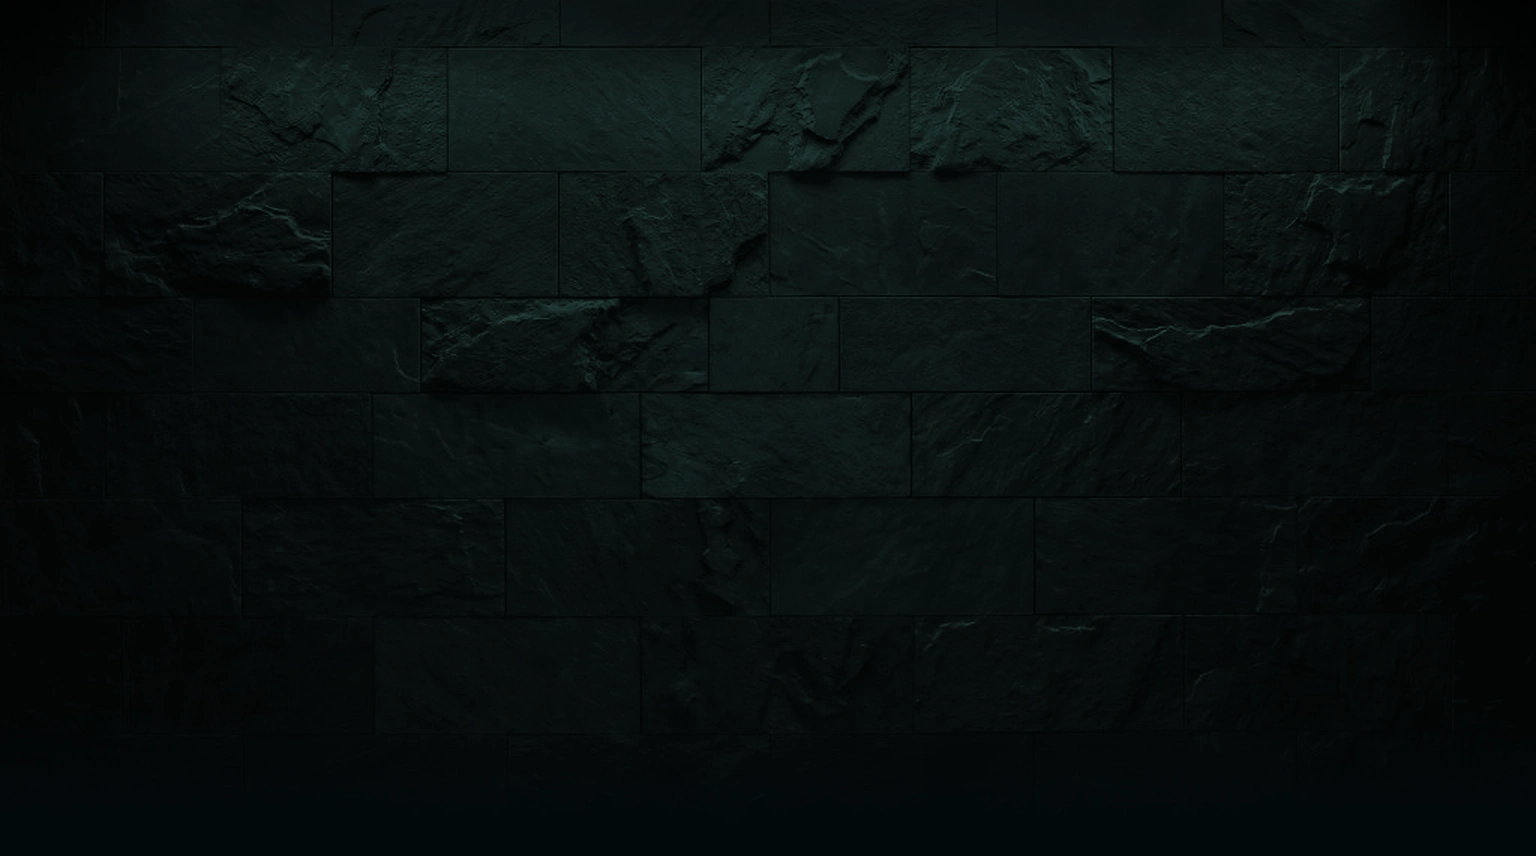
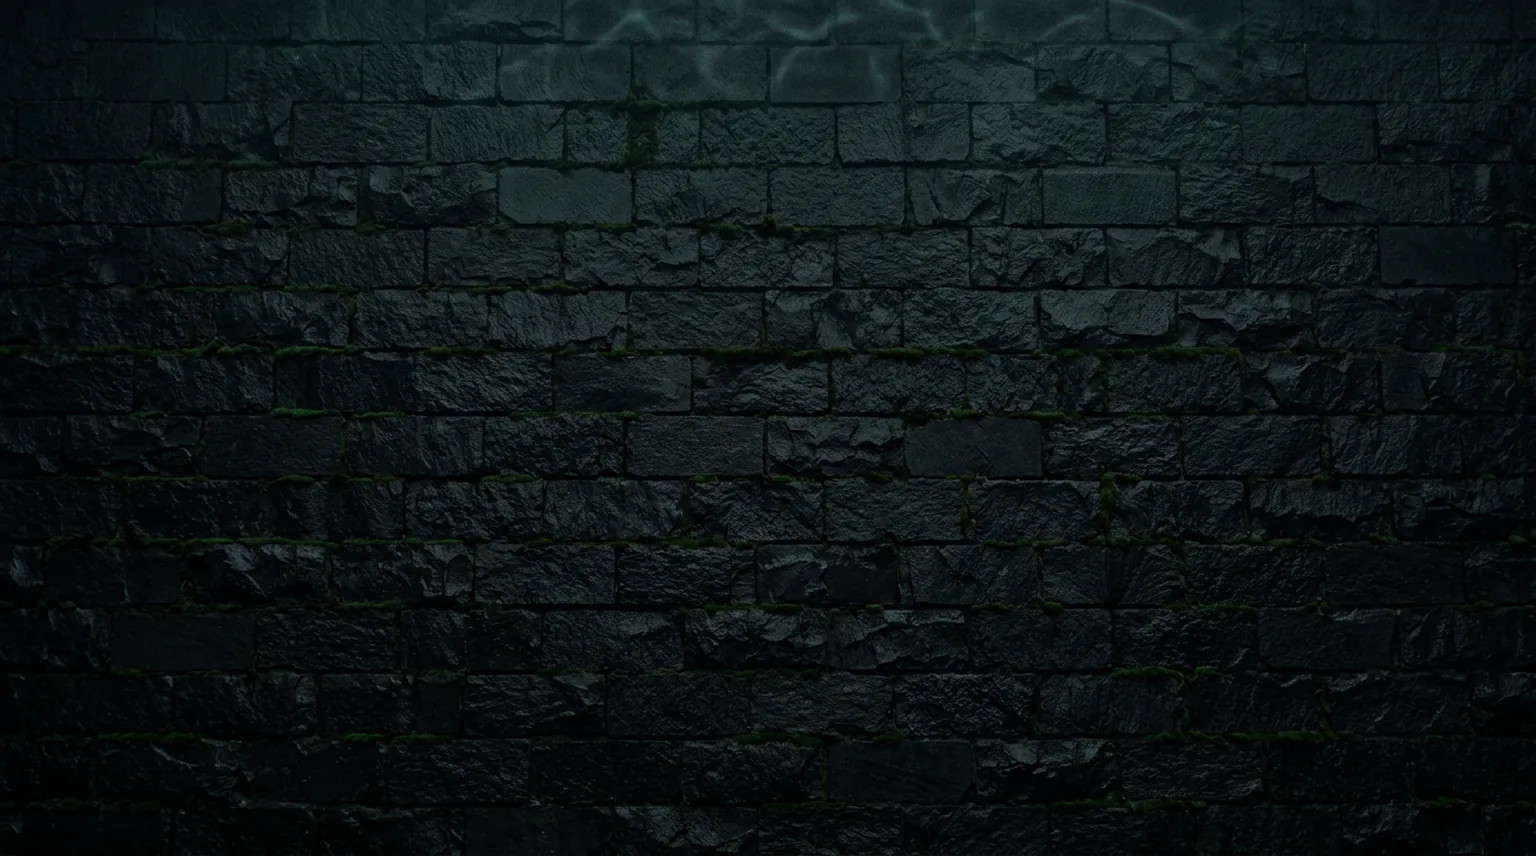
feat(ui): Entry213 v6.1 elevated Frame 4 optical composition, ancient mossy dark basalt wall (?v=61), smudge-free typography & living loop SVG caustics

diff --git a/public/app.css b/public/app.css
@@ -1,8 +1,8 @@
 /* ==========================================================================
-   GLOW Web — Entry213 v6.0 · "Optical Full-Bleed Cinema & Editorial Agency Craft"
+   GLOW Web — Entry213 v6.1 · "Optical Full-Bleed Cinema & Ancient Mossy Basalt Craft"
    True Video-Over-Video Crossfade Seams · Unified 1680px Left Axis & Sans Display
-   Single-Viewport Frame 4 Finale + Overlaid Home Footer · 12 Bespoke WebP Templates
-   Zero Knife-Cut Bars · Zero Canvas · Zero External CDN · Zero innerHTML
+   Elevated Frame 4 Composition + Living Loop SVG Caustics · 12 Bespoke WebP Templates
+   Zero Knife-Cut Bars · Zero Box Smudges · Zero Canvas · Zero External CDN
    ========================================================================== */
 
 :root {
@@ -1461,16 +1461,16 @@ body:not([data-active-view="home"]) .chapter-rail {
   flex-direction: column;
   justify-content: center;
   overflow: clip;
-  background-color: #03080C;
+  background-color: #02070A;
   background-image:
     linear-gradient(
       180deg,
-      rgba(3, 12, 14, 0.22) 0%,
-      rgba(4, 24, 22, 0.12) 16%,
-      rgba(4, 26, 24, 0.18) 68%,
-      #03080C 100%
+      rgba(2, 9, 11, 0.28) 0%,
+      rgba(3, 18, 16, 0.16) 20%,
+      rgba(3, 20, 18, 0.22) 70%,
+      #02070A 100%
     ),
-    url("/assets/basalt-terrace-deck.webp");
+    url("/assets/basalt-terrace-deck.webp?v=61");
   background-size: 100% 100%, cover;
   background-position: center top, center top;
   background-repeat: no-repeat, no-repeat;
@@ -1494,9 +1494,10 @@ body:not([data-active-view="home"]) .chapter-rail {
   .sanctuary-world {
     height: calc(100svh + var(--stone-overlap));
     min-height: calc(100svh + var(--stone-overlap));
-    padding-top: calc(var(--stone-overlap) + 84px);
-    padding-bottom: 82px;
-    gap: clamp(16px, 2.4vh, 26px);
+    justify-content: flex-start;
+    padding-top: calc(var(--stone-overlap) + clamp(96px, 11.6vh, 126px));
+    padding-bottom: 84px;
+    gap: clamp(24px, 4.0vh, 46px);
   }
 
   .sanctuary-world .craft-rail-section {
@@ -1652,6 +1653,62 @@ body:not([data-active-view="home"]) .chapter-rail {
   mask-image: linear-gradient(180deg, transparent 0%, #000 34%, #000 100%);
 }
 
+/* Layer B2: Living Loop SVG Water-Caustic Filaments & Ancient Moss-Dew Glints (Zero Canvas) */
+.sanctuary-caustic-loop {
+  position: absolute;
+  inset: 0;
+  opacity: 0.78;
+  mix-blend-mode: screen;
+  pointer-events: none;
+}
+
+.sanctuary-caustic-svg {
+  width: 100%;
+  height: 100%;
+  display: block;
+}
+
+.caustic-wave-a {
+  transform-box: fill-box;
+  transform-origin: center;
+  animation: caustic-drift-a 19s ease-in-out infinite alternate;
+  will-change: transform, opacity;
+}
+
+.caustic-wave-b {
+  transform-box: fill-box;
+  transform-origin: center;
+  animation: caustic-drift-b 27s ease-in-out infinite alternate;
+  will-change: transform, opacity;
+}
+
+.moss-glint {
+  opacity: 0.24;
+  will-change: opacity, transform;
+}
+
+.mg-a { animation: moss-glint-breathe 6.7s ease-in-out var(--mg-d, 0s) infinite; }
+.mg-b { animation: moss-glint-breathe 9.1s ease-in-out var(--mg-d, 0s) infinite; }
+.mg-c { animation: moss-glint-breathe 11.3s ease-in-out var(--mg-d, 0s) infinite; }
+
+@keyframes caustic-drift-a {
+  0% { transform: translate3d(-34px, -4px, 0) scaleX(1.02); opacity: 0.56; }
+  50% { transform: translate3d(12px, 5px, 0) scaleX(1.05); opacity: 0.88; }
+  100% { transform: translate3d(38px, -3px, 0) scaleX(1.01); opacity: 0.62; }
+}
+
+@keyframes caustic-drift-b {
+  0% { transform: translate3d(36px, 5px, 0) scaleX(1.03); opacity: 0.48; }
+  50% { transform: translate3d(-14px, -6px, 0) scaleX(0.98); opacity: 0.82; }
+  100% { transform: translate3d(-40px, 4px, 0) scaleX(1.04); opacity: 0.54; }
+}
+
+@keyframes moss-glint-breathe {
+  0%, 100% { opacity: 0.14; }
+  48% { opacity: 0.68; }
+  72% { opacity: 0.28; }
+}
+
 /* Layer C: Subtle Cursor-Responsive Ambient Caustic Glow */
 .sanctuary-caustic-halo {
   position: absolute;
@@ -1722,13 +1779,13 @@ body:not([data-active-view="home"]) .chapter-rail {
 .craft-rail-section .container {
   position: relative;
   background: radial-gradient(
-    ellipse 86% 76% at 50% 48%,
-    rgba(3, 10, 15, 0.52) 0%,
-    rgba(3, 10, 15, 0.24) 64%,
+    ellipse 98% 92% at 50% 50%,
+    rgba(2, 8, 11, 0.18) 0%,
+    rgba(2, 8, 11, 0.06) 62%,
     transparent 100%
   );
-  border-radius: 22px;
-  padding-top: 12px;
+  border-radius: 0;
+  padding-top: 8px;
 }
 
 .craft-bar-head {
@@ -1742,6 +1799,7 @@ body:not([data-active-view="home"]) .chapter-rail {
 
 .craft-bar-head .eyebrow {
   margin: 0;
+  text-shadow: 0 2px 14px rgba(1, 7, 10, 0.9);
 }
 
 .craft-bar-head h2 {
@@ -1750,6 +1808,7 @@ body:not([data-active-view="home"]) .chapter-rail {
   font-weight: 600;
   letter-spacing: -0.025em;
   color: #FFFFFF;
+  text-shadow: 0 4px 22px rgba(1, 7, 10, 0.92), 0 1px 4px rgba(1, 7, 10, 0.86);
 }
 
 .craft-bar-head h2 .craft-accent {
@@ -1831,6 +1890,7 @@ body:not([data-active-view="home"]) .chapter-rail {
   font-weight: 650;
   letter-spacing: -0.01em;
   color: #FFFFFF;
+  text-shadow: 0 2px 16px rgba(1, 7, 10, 0.92), 0 1px 3px rgba(1, 7, 10, 0.85);
 }
 
 .craft-step p {
@@ -1838,6 +1898,7 @@ body:not([data-active-view="home"]) .chapter-rail {
   font-size: 12.5px;
   line-height: 1.5;
   color: var(--ink-silver);
+  text-shadow: 0 2px 14px rgba(1, 7, 10, 0.9), 0 1px 3px rgba(1, 7, 10, 0.84);
 }
 
 /* ==========================================================================
@@ -1860,12 +1921,12 @@ body:not([data-active-view="home"]) .chapter-rail {
   max-width: 1100px;
   margin: 0 auto;
   text-align: center;
-  padding: 20px 18px 16px;
-  border-radius: 26px;
+  padding: 16px 18px 14px;
+  border-radius: 0;
   background: radial-gradient(
-    ellipse 78% 72% at 50% 50%,
-    rgba(3, 10, 15, 0.56) 0%,
-    rgba(3, 10, 15, 0.24) 62%,
+    ellipse 98% 92% at 50% 50%,
+    rgba(2, 8, 11, 0.18) 0%,
+    rgba(2, 8, 11, 0.06) 62%,
     transparent 100%
   );
 }
@@ -1877,7 +1938,7 @@ body:not([data-active-view="home"]) .chapter-rail {
   line-height: 1.14;
   letter-spacing: -0.03em;
   color: #FFFFFF;
-  text-shadow: 0 6px 28px rgba(2, 10, 15, 0.58);
+  text-shadow: 0 6px 28px rgba(1, 7, 10, 0.92), 0 2px 6px rgba(1, 7, 10, 0.84);
 }
 
 @media (min-width: 1100px) {
@@ -1902,6 +1963,7 @@ body:not([data-active-view="home"]) .chapter-rail {
   font-size: 15.5px;
   line-height: 1.62;
   color: var(--ink-silver);
+  text-shadow: 0 2px 16px rgba(1, 7, 10, 0.9), 0 1px 4px rgba(1, 7, 10, 0.84);
 }
 
 .gateway-cta-row {
@@ -4033,7 +4095,8 @@ body:not([data-active-view="home"]) .chapter-rail {
     display: none;
   }
 
-  .hero-starfield * {
+  .hero-starfield *,
+  .sanctuary-caustic-svg * {
     animation: none !important;
   }
 

diff --git a/public/index.html b/public/index.html
@@ -7,7 +7,7 @@
 <meta name="theme-color" content="#05161F">
 <title>GLOW Web — Ánh Sáng Đại Hải · Kiến Trúc Điện Ảnh Cho Thương Hiệu</title>
 <link rel="preload" as="image" href="/assets/hero-ocean-jade.webp" fetchpriority="high">
-<link rel="stylesheet" href="/app.css">
+<link rel="stylesheet" href="/app.css?v=61">
 </head>
 <body data-world-scene="ocean" data-active-view="home" data-lang="vi">
 <a class="skip-link" href="#main-content" data-i18n="a11y.skip">Chuyển tới nội dung chính</a>
@@ -535,6 +535,54 @@
             </g>
             <g class="mist-band mist-band-3">
               <rect x="-180" y="340" width="1960" height="620" filter="url(#sanctuary-fog-filter)"/>
+            </g>
+          </svg>
+        </div>
+
+        <div class="sanctuary-caustic-loop" aria-hidden="true">
+          <svg class="sanctuary-caustic-svg" viewBox="0 0 1600 900" preserveAspectRatio="xMidYMid slice" aria-hidden="true">
+            <defs>
+              <filter id="caustic-wave-blur" x="-15%" y="-35%" width="130%" height="170%">
+                <feGaussianBlur stdDeviation="7.5"/>
+              </filter>
+              <linearGradient id="caustic-filament-a" x1="0%" y1="0%" x2="100%" y2="0%">
+                <stop offset="0%" stop-color="#6EE7B7" stop-opacity="0"/>
+                <stop offset="28%" stop-color="#9AF6DC" stop-opacity="0.34"/>
+                <stop offset="52%" stop-color="#D9FCFA" stop-opacity="0.52"/>
+                <stop offset="76%" stop-color="#6EE7B7" stop-opacity="0.3"/>
+                <stop offset="100%" stop-color="#6EE7B7" stop-opacity="0"/>
+              </linearGradient>
+              <linearGradient id="caustic-filament-b" x1="0%" y1="0%" x2="100%" y2="0%">
+                <stop offset="0%" stop-color="#52E0B2" stop-opacity="0"/>
+                <stop offset="34%" stop-color="#A7F3D0" stop-opacity="0.28"/>
+                <stop offset="58%" stop-color="#E6FFFA" stop-opacity="0.44"/>
+                <stop offset="82%" stop-color="#48D1A8" stop-opacity="0.24"/>
+                <stop offset="100%" stop-color="#52E0B2" stop-opacity="0"/>
+              </linearGradient>
+            </defs>
+            <g class="caustic-wave-a" filter="url(#caustic-wave-blur)" fill="none" stroke="url(#caustic-filament-a)" stroke-linecap="round">
+              <path d="M180 86 C360 62, 520 118, 700 88 C880 58, 1040 116, 1220 84 C1340 64, 1430 96, 1510 82" stroke-width="2.4"/>
+              <path d="M240 142 C410 116, 590 168, 780 136 C960 106, 1120 164, 1310 134" stroke-width="1.9" opacity="0.82"/>
+              <path d="M320 198 C510 174, 680 218, 860 192 C1030 168, 1180 212, 1360 188" stroke-width="1.5" opacity="0.64"/>
+            </g>
+            <g class="caustic-wave-b" filter="url(#caustic-wave-blur)" fill="none" stroke="url(#caustic-filament-b)" stroke-linecap="round">
+              <path d="M140 112 C330 138, 500 78, 690 110 C880 142, 1060 82, 1250 114 C1370 134, 1450 98, 1530 112" stroke-width="2.1"/>
+              <path d="M290 168 C470 194, 640 142, 830 170 C1010 198, 1170 148, 1340 172" stroke-width="1.6" opacity="0.74"/>
+              <path d="M410 226 C580 246, 750 206, 930 228 C1090 248, 1210 214, 1330 226" stroke-width="1.3" opacity="0.52"/>
+            </g>
+            <g class="moss-dew-plane">
+              <circle class="moss-glint mg-a" style="--mg-d:-1.4s" cx="214" cy="284" r="2.1" fill="#6EE7B7"/>
+              <circle class="moss-glint mg-b" style="--mg-d:-4.7s" cx="368" cy="348" r="1.8" fill="#A7F3D0"/>
+              <circle class="moss-glint mg-c" style="--mg-d:-2.9s" cx="526" cy="278" r="2.4" fill="#6EE7B7"/>
+              <circle class="moss-glint mg-a" style="--mg-d:-6.3s" cx="684" cy="412" r="1.9" fill="#A7F3D0"/>
+              <circle class="moss-glint mg-b" style="--mg-d:-0.8s" cx="842" cy="352" r="2.3" fill="#6EE7B7"/>
+              <circle class="moss-glint mg-c" style="--mg-d:-5.5s" cx="1018" cy="288" r="1.8" fill="#A7F3D0"/>
+              <circle class="moss-glint mg-a" style="--mg-d:-3.6s" cx="1186" cy="416" r="2.5" fill="#6EE7B7"/>
+              <circle class="moss-glint mg-b" style="--mg-d:-7.9s" cx="1364" cy="346" r="1.9" fill="#A7F3D0"/>
+              <circle class="moss-glint mg-c" style="--mg-d:-2.1s" cx="292" cy="542" r="2.0" fill="#6EE7B7"/>
+              <circle class="moss-glint mg-a" style="--mg-d:-5.1s" cx="612" cy="608" r="2.2" fill="#A7F3D0"/>
+              <circle class="moss-glint mg-b" style="--mg-d:-3.2s" cx="956" cy="546" r="1.8" fill="#6EE7B7"/>
+              <circle class="moss-glint mg-c" style="--mg-d:-8.4s" cx="1278" cy="614" r="2.3" fill="#A7F3D0"/>
             </g>
           </svg>
         </div>
@@ -1203,6 +1251,6 @@
   </div>
 </div>
 
-<script type="module" src="/app.js"></script>
+<script type="module" src="/app.js?v=61"></script>
 </body>
 </html>

diff --git a/tests/flagship-assets-and-boundary.test.ts b/tests/flagship-assets-and-boundary.test.ts
@@ -184,6 +184,9 @@ test("public flagship files enforce zero internal leaks, zero external CDN, zero
   assert.ok(html.includes('id="chapter-villa"'), "index.html missing #chapter-villa direct scroll chapter");
   assert.ok(html.includes('class="chapter-editorial'), "index.html missing borderless .chapter-editorial film typography");
   assert.equal(html.includes("chapter-card"), false, "hard bordered .chapter-card boxes over video frames must be removed");
+  assert.ok(html.includes('href="/app.css?v=61"'), "index.html must cache-bust /app.css?v=61");
+  assert.ok(html.includes('src="/app.js?v=61"'), "index.html must cache-bust /app.js?v=61");
+  assert.ok(html.includes('class="sanctuary-caustic-svg"'), "index.html must include living loop .sanctuary-caustic-svg inside #sanctuary-sculpture");
   assert.ok(html.includes('id="sanctuary-sculpture"'), "index.html missing #sanctuary-sculpture atmospheric layer");
   assert.equal(html.includes("prism-ribbons-svg"), false, "crude SVG prism-ribbons-svg curves must be removed");
   assert.equal(html.includes("orbital-ring"), false, "thin wireframe orbital-ring circles must be removed");
@@ -239,9 +242,15 @@ test("public flagship files enforce zero internal leaks, zero external CDN, zero
   );
   assert.match(
     css,
-    /\.sanctuary-world\s*\{[^}]*z-index:\s*5;[^}]*margin-top:\s*calc\(-1\s*\*\s*var\(--stone-overlap\)\);[^}]*url\("\/assets\/basalt-terrace-deck\.webp"\)[^}]*#000\s+var\(--stone-overlap\),\s*#000\s+100%/s,
-    "app.css .sanctuary-world must dissolve over Video 03 pool coping across --stone-overlap with real basalt-terrace-deck.webp"
+    /\.sanctuary-world\s*\{[^}]*z-index:\s*5;[^}]*margin-top:\s*calc\(-1\s*\*\s*var\(--stone-overlap\)\);[^}]*url\("\/assets\/basalt-terrace-deck\.webp\?v=61"\)[^}]*#000\s+var\(--stone-overlap\),\s*#000\s+100%/s,
+    "app.css .sanctuary-world must dissolve over Video 03 pool coping across --stone-overlap with cache-busted basalt-terrace-deck.webp?v=61"
   );
+  assert.match(
+    css,
+    /@media\s*\(min-width:\s*1024px\)\s*and\s*\(min-height:\s*760px\)\s*\{\s*\.sanctuary-world\s*\{[^}]*justify-content:\s*flex-start;/s,
+    "app.css desktop .sanctuary-world must anchor #craft and #intake high beneath the header (justify-content: flex-start)"
+  );
+  assert.ok(css.includes(".sanctuary-caustic-svg"), "app.css must style .sanctuary-caustic-svg living loop caustic layer");
   assert.match(
     css,
     /main\[data-active-view="home"\]\s+\.site-footer\s*\{[^}]*margin-top:\s*-80px;[^}]*min-height:\s*80px;/s,
